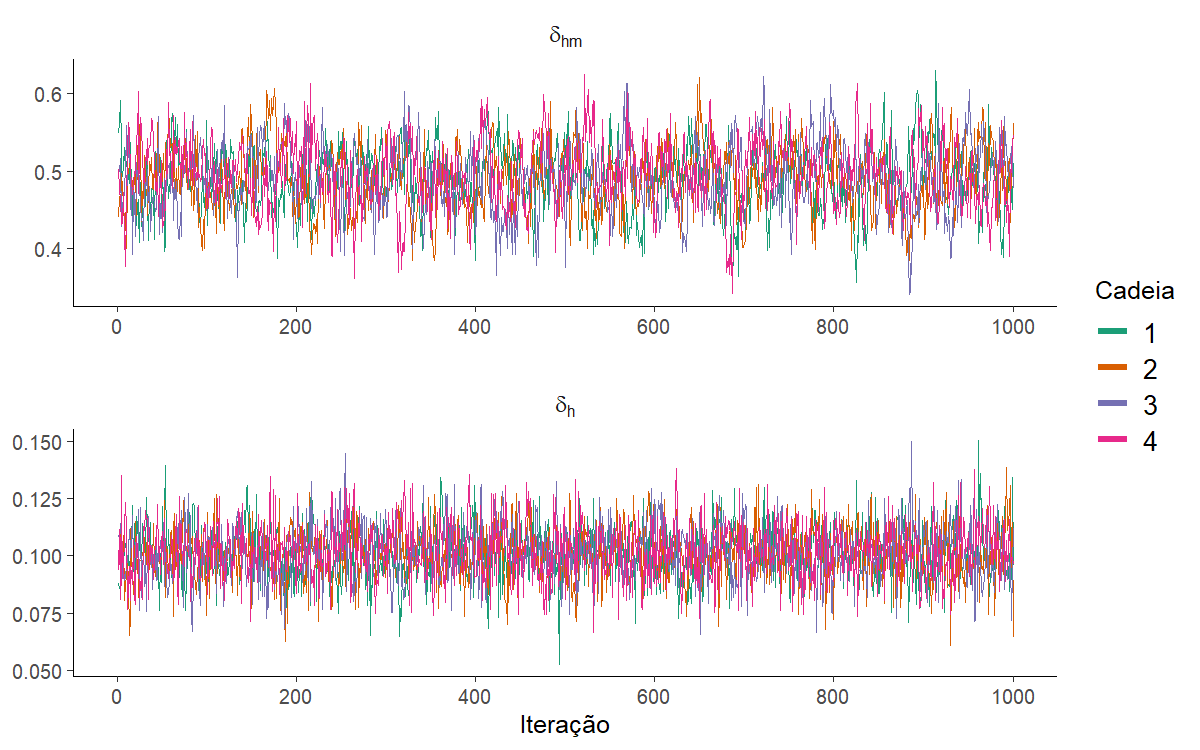
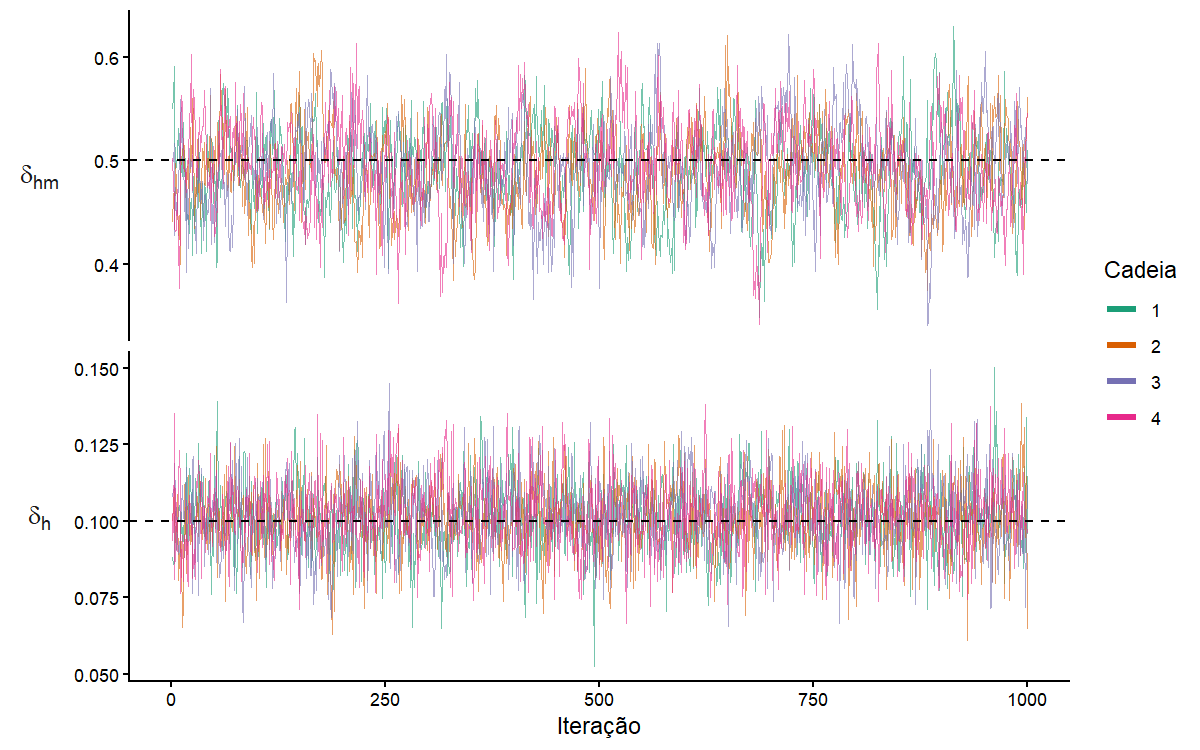
Melhora o traceplot e adiciona o rank plot

diff --git a/README.md b/README.md
@@ -50,11 +50,13 @@ O ajuste completo do Stan (`output/fit_stan.rds`, cerca de 120 MB) passa do limi
 
 ## Resultados e discussão (uma réplica, `seed = 15`)
 
-O ajuste do Stan convergiu sem transições divergentes, com $\hat{R}$ máximo de 1,009 e tamanho efetivo de amostra (ESS) mínimo perto de 500; no traceplot abaixo, as quatro cadeias de $\delta_{hm}$ e $\delta_h$ se misturam bem. Os dois efeitos globais foram bem recuperados: o efeito humano-máquina ($\delta_{hm}$, valor verdadeiro 0,5) teve média a posteriori de 0,492, com intervalo de credibilidade de 90% de 0,422 a 0,561, e o efeito humano ($\delta_h$, valor verdadeiro 0,1) ficou em 0,101, de 0,081 a 0,121.
+O ajuste do Stan convergiu sem transições divergentes, com $\hat{R}$ máximo de 1,009 e tamanho efetivo de amostra (ESS) mínimo perto de 500, em alguns $b_j$. Os dois efeitos globais foram bem recuperados: o efeito humano-máquina ($\delta_{hm}$, valor verdadeiro 0,5) teve média a posteriori de 0,492, com intervalo de credibilidade de 90% de 0,422 a 0,561, e o efeito humano ($\delta_h$, valor verdadeiro 0,1) ficou em 0,101, de 0,081 a 0,121.
 
 ![Traceplot das cadeias de δhm e δh no Stan](output/traceplot_stan.png)
 
-Para os outros parâmetros, a tabela compara as estimativas com os valores verdadeiros (correlação, viés e RMSE) e mostra, no Stan, a cobertura dos intervalos de 90%.
+![Rank plot das cadeias de δhm e δh no Stan](output/rankplot_stan.png)
+
+As quatro cadeias se misturam bem em torno dos valores verdadeiros (linhas tracejadas no traceplot) e, no rank plot, ficam perto da linha de referência, o esperado quando todas amostram a mesma distribuição. O $\delta_{hm}$ mistura mais devagar que o $\delta_h$ (ESS de 557 contra 1.770), provavelmente por multiplicar o $\phi_i$ de cada pessoa, que é mal identificado. Para os outros parâmetros, a tabela compara as estimativas com os valores verdadeiros (correlação, viés e RMSE) e mostra, no Stan, a cobertura dos intervalos de 90%.
 
 | Parâmetro | Método | Correlação | Viés | RMSE | Cobertura |
 |---|---|---:|---:|---:|---:|
